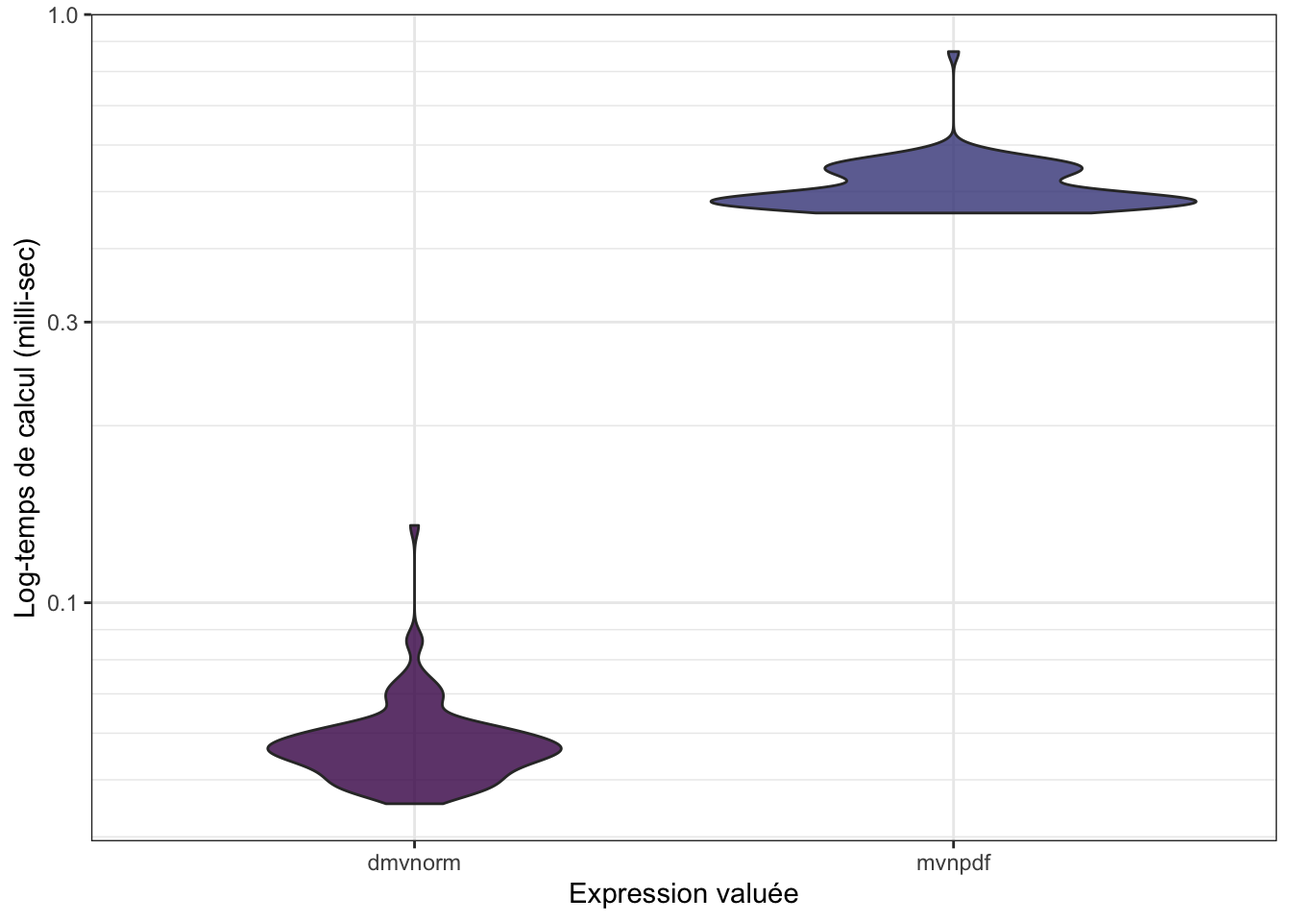
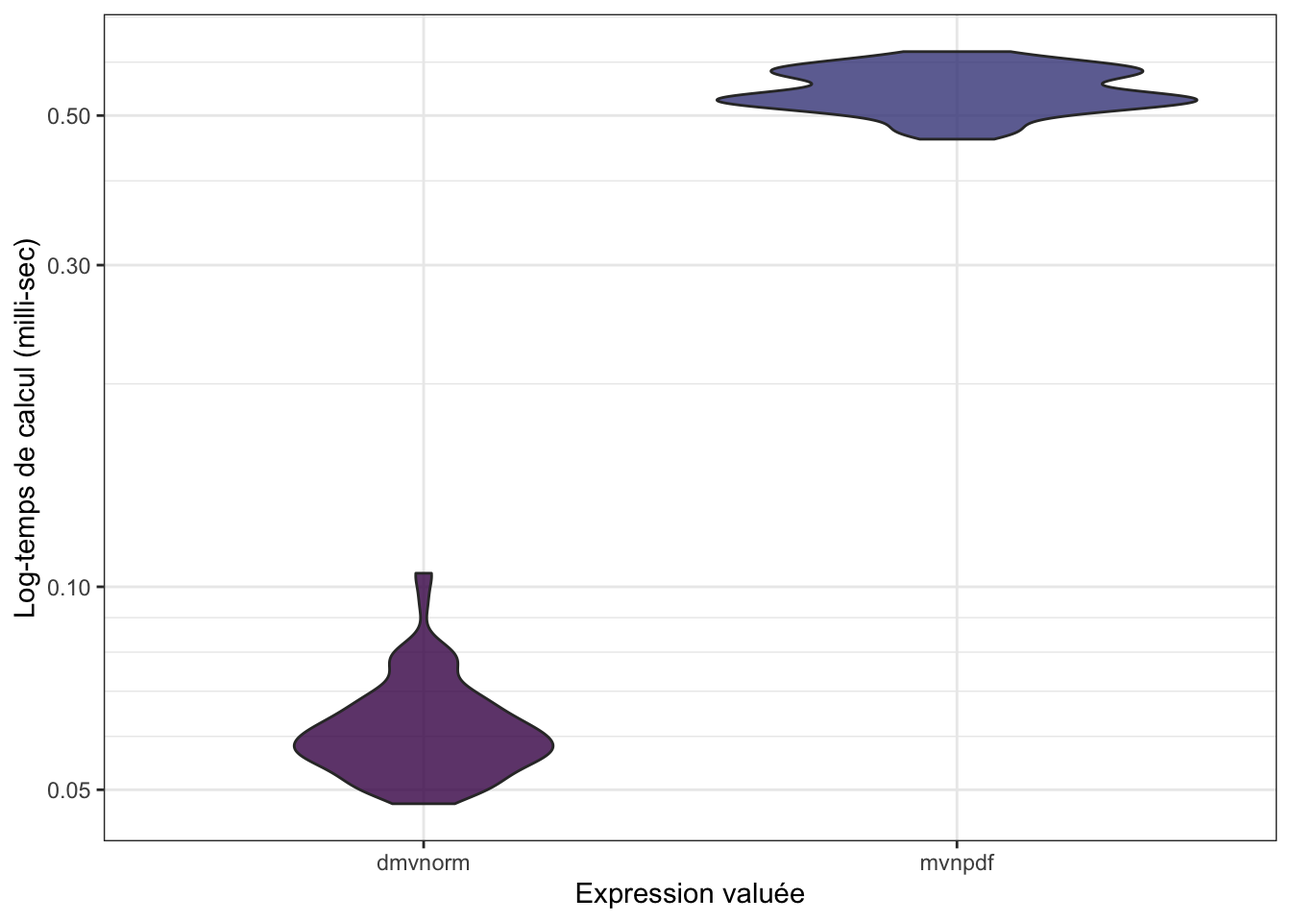
no more misc

diff --git a/_book/mesurer-et-comparer-des-temps-dexécution.html b/_book/mesurer-et-comparer-des-temps-dexécution.html
@@ -51,8 +51,7 @@
 <li><a class="" href="profiler-son-code.html"><span class="header-section-number">4</span> Profiler son code</a></li>
 <li><a class="" href="rcpp-ou-comment-int%C3%A9grer-facilement-du-code-cdans-un-package.html"><span class="header-section-number">5</span> Rcpp ou comment intégrer facilement du code C++dans un package </a></li>
 <li><a class="" href="parall%C3%A9lisation-du-code.html"><span class="header-section-number">6</span> Parallélisation du code </a></li>
-<li><a class="" href="misc%C3%A9lan%C3%A9es.html"><span class="header-section-number">7</span> Miscélanées</a></li>
-<li><a class="" href="take-home-message.html"><span class="header-section-number">8</span> Take Home message</a></li>
+<li><a class="" href="take-home-message.html"><span class="header-section-number">7</span> Take Home message</a></li>
 <li><a class="" href="further-reading.html">Further reading</a></li>
 </ul>
 
@@ -76,7 +75,7 @@ fonction <code><a href="https://rdrr.io/r/base/system.time.html">system.time()</
 <div class="sourceCode" id="cb9"><pre class="downlit sourceCode r">
 <code class="sourceCode R"><span class="fu"><a href="https://rdrr.io/r/base/system.time.html">system.time</a></span><span class="op">(</span><span class="fu">mvnpdf</span><span class="op">(</span>x<span class="op">=</span><span class="fu"><a href="https://rdrr.io/r/base/matrix.html">matrix</a></span><span class="op">(</span><span class="fu"><a href="https://rdrr.io/r/base/rep.html">rep</a></span><span class="op">(</span><span class="fl">1.96</span>, <span class="fl">2</span><span class="op">)</span>, nrow<span class="op">=</span><span class="fl">2</span>, ncol<span class="op">=</span><span class="fl">1</span><span class="op">)</span>, Log<span class="op">=</span><span class="cn">FALSE</span><span class="op">)</span><span class="op">)</span></code></pre></div>
 <pre><code>## utilisateur     système      écoulé 
-##       0.001       0.003       0.483</code></pre>
+##       0.001       0.000       0.002</code></pre>
 <p>Le problème qui apparaît sur cet exemple est que l’exécution est tellement
 rapide que <code><a href="https://rdrr.io/r/base/system.time.html">system.time()</a></code> affiche <code>0</code> (ou une valeur très proche).
 De plus, on voit qu’il y a une certaine variabilité quand on relance plusieurs
@@ -86,7 +85,7 @@ on ne peut pas utiliser <code><a href="https://rdrr.io/r/base/system.time.html">
 <div class="sourceCode" id="cb11"><pre class="downlit sourceCode r">
 <code class="sourceCode R"><span class="fu"><a href="https://rdrr.io/r/base/system.time.html">system.time</a></span><span class="op">(</span><span class="fu">mvtnorm</span><span class="fu">::</span><span class="fu"><a href="https://rdrr.io/pkg/mvtnorm/man/Mvnorm.html">dmvnorm</a></span><span class="op">(</span><span class="fu"><a href="https://rdrr.io/r/base/rep.html">rep</a></span><span class="op">(</span><span class="fl">1.96</span>, <span class="fl">2</span><span class="op">)</span><span class="op">)</span><span class="op">)</span></code></pre></div>
 <pre><code>## utilisateur     système      écoulé 
-##       0.004       0.003       0.012</code></pre>
+##       0.008       0.004       0.015</code></pre>
 <p>On pourrait se dire qu’il faut augmenter la complexité de notre calcul, mais
 il y a mieux : utiliser le package <code>microbenchmark</code> !</p>
 </div>
@@ -105,12 +104,12 @@ commandes et donc va stabiliser le résultat.</p>
                      times<span class="op">=</span><span class="fl">1000L</span><span class="op">)</span>
 <span class="va">mb</span></code></pre></div>
 <pre><code>## Unit: microseconds
-##                                           expr    min     lq     mean  median
-##                 mvtnorm::dmvnorm(rep(1.96, 2)) 38.151 41.445 49.40212 44.5555
-##  mvnpdf(x = matrix(rep(1.96, 2)), Log = FALSE) 35.410 38.303 43.77672 40.6375
-##      uq     max neval cld
-##  52.725 2034.52  1000   b
-##  48.141  108.67  1000  a</code></pre>
+##                                           expr    min      lq     mean  median
+##                 mvtnorm::dmvnorm(rep(1.96, 2)) 36.974 41.2820 48.71308 47.8220
+##  mvnpdf(x = matrix(rep(1.96, 2)), Log = FALSE) 34.283 38.0535 46.65114 44.1935
+##       uq      max neval cld
+##  53.4680  162.805  1000   a
+##  48.8095 2008.321  1000   a</code></pre>
 <pre><code>## Warning: It is deprecated to specify `guide = FALSE` to remove a guide. Please
 ## use `guide = "none"` instead.</code></pre>
 <div class="inline-figure"><img src="AdvancedRcourse_dev_perf_files/figure-html/unnamed-chunk-13-1.png" width="672"></div>
@@ -124,12 +123,12 @@ cas :</p>
                      times<span class="op">=</span><span class="fl">100L</span><span class="op">)</span>
 <span class="va">mb</span></code></pre></div>
 <pre><code>## Unit: microseconds
-##                                                       expr     min       lq
-##         mvtnorm::dmvnorm(matrix(1.96, nrow = n, ncol = 2))  45.527  51.8480
-##  mvnpdf(x = matrix(1.96, nrow = 2, ncol = n), Log = FALSE) 459.801 478.5005
-##       mean  median       uq     max neval cld
-##   57.90365  56.246  60.2025 135.332   100  a 
-##  510.34232 490.858 538.0045 864.819   100   b</code></pre>
+##                                                       expr     min      lq
+##         mvtnorm::dmvnorm(matrix(1.96, nrow = n, ncol = 2))  47.669  55.278
+##  mvnpdf(x = matrix(1.96, nrow = 2, ncol = n), Log = FALSE) 461.225 519.846
+##       mean   median       uq     max neval cld
+##   61.94593  59.6205  66.0735 104.742   100  a 
+##  544.29567 534.2715 579.1100 621.930   100   b</code></pre>
 <pre><code>## Warning: It is deprecated to specify `guide = FALSE` to remove a guide. Please
 ## use `guide = "none"` instead.</code></pre>
 <div class="inline-figure"><img src="AdvancedRcourse_dev_perf_files/figure-html/unnamed-chunk-15-1.png" width="672"></div>

diff --git a/_book/profiler-son-code.html b/_book/profiler-son-code.html
@@ -51,8 +51,7 @@
 <li><a class="active" href="profiler-son-code.html"><span class="header-section-number">4</span> Profiler son code</a></li>
 <li><a class="" href="rcpp-ou-comment-int%C3%A9grer-facilement-du-code-cdans-un-package.html"><span class="header-section-number">5</span> Rcpp ou comment intégrer facilement du code C++dans un package </a></li>
 <li><a class="" href="parall%C3%A9lisation-du-code.html"><span class="header-section-number">6</span> Parallélisation du code </a></li>
-<li><a class="" href="misc%C3%A9lan%C3%A9es.html"><span class="header-section-number">7</span> Miscélanées</a></li>
-<li><a class="" href="take-home-message.html"><span class="header-section-number">8</span> Take Home message</a></li>
+<li><a class="" href="take-home-message.html"><span class="header-section-number">7</span> Take Home message</a></li>
 <li><a class="" href="further-reading.html">Further reading</a></li>
 </ul>
 
@@ -100,11 +99,11 @@ fine ce qui prend du temps dans notre fonction.</p>
 <span class="va">mb</span></code></pre></div>
 <pre><code>## Unit: milliseconds
 ##                                                            expr      min
-##       mvnpdf(x = matrix(1.96, nrow = 2, ncol = n), Log = FALSE) 4.292658
-##  mvnpdfsmart(x = matrix(1.96, nrow = 2, ncol = n), Log = FALSE) 3.121930
-##        lq     mean   median       uq       max neval cld
-##  5.178992 6.533629 5.321799 6.648076 16.304155   100   b
-##  3.777338 3.931974 3.824561 3.894648  5.802973   100  a</code></pre>
+##       mvnpdf(x = matrix(1.96, nrow = 2, ncol = n), Log = FALSE) 4.782176
+##  mvnpdfsmart(x = matrix(1.96, nrow = 2, ncol = n), Log = FALSE) 3.438059
+##        lq     mean   median       uq      max neval cld
+##  5.257269 7.430717 6.071878 7.933469 29.95872   100   b
+##  3.795624 4.714930 3.980714 4.958576 10.35082   100  a</code></pre>
 <pre><code>## Warning: It is deprecated to specify `guide = FALSE` to remove a guide. Please
 ## use `guide = "none"` instead.</code></pre>
 <div class="inline-figure"><img src="AdvancedRcourse_dev_perf_files/figure-html/unnamed-chunk-20-1.png" width="672"></div>
@@ -118,13 +117,13 @@ fine ce qui prend du temps dans notre fonction.</p>
 <span class="va">mb</span></code></pre></div>
 <pre><code>## Unit: microseconds
 ##                                                            expr      min
-##              mvtnorm::dmvnorm(matrix(1.96, nrow = n, ncol = 2))   69.083
-##       mvnpdf(x = matrix(1.96, nrow = 2, ncol = n), Log = FALSE) 4611.668
-##  mvnpdfsmart(x = matrix(1.96, nrow = 2, ncol = n), Log = FALSE) 3542.551
-##         lq      mean    median        uq      max neval cld
-##    89.2865  112.7825  107.4805  126.9635   244.33   100 a  
-##  5120.0665 5987.7049 5217.0675 5573.6605 14612.64   100   c
-##  3728.4760 4010.8418 3810.3465 3964.8255  9676.82   100  b</code></pre>
+##              mvtnorm::dmvnorm(matrix(1.96, nrow = n, ncol = 2))   60.010
+##       mvnpdf(x = matrix(1.96, nrow = 2, ncol = n), Log = FALSE) 4515.763
+##  mvnpdfsmart(x = matrix(1.96, nrow = 2, ncol = n), Log = FALSE) 3037.688
+##         lq      mean    median        uq       max neval cld
+##    82.0995  191.5077   98.9665  119.9235  7213.138   100 a  
+##  5024.7340 6657.3702 5128.3040 6216.6150 27369.315   100   c
+##  3652.8555 4391.7315 3728.3235 3847.4110 11374.462   100  b</code></pre>
 <pre><code>## Warning: It is deprecated to specify `guide = FALSE` to remove a guide. Please
 ## use `guide = "none"` instead.</code></pre>
 <div class="inline-figure"><img src="AdvancedRcourse_dev_perf_files/figure-html/unnamed-chunk-22-1.png" width="672"></div>
@@ -153,15 +152,15 @@ fonction :</p>
 <span class="va">mb</span></code></pre></div>
 <pre><code>## Unit: microseconds
 ##                                                            expr      min
-##              mvtnorm::dmvnorm(matrix(1.96, nrow = n, ncol = 2))   68.257
-##       mvnpdf(x = matrix(1.96, nrow = 2, ncol = n), Log = FALSE) 4091.445
-##  mvnpdfsmart(x = matrix(1.96, nrow = 2, ncol = n), Log = FALSE) 3052.047
-##  mvnpdfoptim(x = matrix(1.96, nrow = 2, ncol = n), Log = FALSE) 2269.883
-##         lq      mean   median        uq       max neval  cld
-##    87.7205  123.6598  103.104  134.2335   411.735   100 a   
-##  5067.2785 6306.9136 5301.935 6239.9835 24134.017   100    d
-##  3677.6310 4046.1961 3823.486 3934.9035 10496.927   100   c 
-##  2747.6350 3245.0292 2856.783 3035.3405 21008.582   100  b</code></pre>
+##              mvtnorm::dmvnorm(matrix(1.96, nrow = n, ncol = 2))   61.880
+##       mvnpdf(x = matrix(1.96, nrow = 2, ncol = n), Log = FALSE) 4420.839
+##  mvnpdfsmart(x = matrix(1.96, nrow = 2, ncol = n), Log = FALSE) 3180.648
+##  mvnpdfoptim(x = matrix(1.96, nrow = 2, ncol = n), Log = FALSE) 2317.068
+##         lq      mean    median        uq       max neval  cld
+##    86.8445  108.4047   99.3155  113.8705   369.739   100 a   
+##  5104.8385 7021.1358 5238.6300 6625.9410 25898.952   100    d
+##  3719.1895 4228.5806 3786.3715 3918.7465 11089.569   100   c 
+##  2823.5855 3283.0512 2910.9475 3007.3695 10057.728   100  b</code></pre>
 <pre><code>## Warning: It is deprecated to specify `guide = FALSE` to remove a guide. Please
 ## use `guide = "none"` instead.</code></pre>
 <div class="inline-figure"><img src="AdvancedRcourse_dev_perf_files/figure-html/unnamed-chunk-25-1.png" width="672"></div>

diff --git a/_book/take-home-message.html b/_book/take-home-message.html
@@ -4,15 +4,15 @@
 <meta http-equiv="Content-Type" content="text/html; charset=UTF-8">
 <meta charset="utf-8">
 <meta name="viewport" content="width=device-width, initial-scale=1, shrink-to-fit=no">
-<title>Chapter 8 Take Home message | Advanced  course</title>
+<title>Chapter 7 Take Home message | Advanced  course</title>
 <meta name="author" content="Robin Genuer &amp; Boris Hejblum">
 <meta name="description" content="MAKE PACKAGES use git, at least locally for yourself if needed (i.e. after optimization of code itself), do not be afraid of using Rcpp and/or of parallelizing tour code">
 <meta name="generator" content="bookdown 0.26 with bs4_book()">
-<meta property="og:title" content="Chapter 8 Take Home message | Advanced  course">
+<meta property="og:title" content="Chapter 7 Take Home message | Advanced  course">
 <meta property="og:type" content="book">
 <meta property="og:description" content="MAKE PACKAGES use git, at least locally for yourself if needed (i.e. after optimization of code itself), do not be afraid of using Rcpp and/or of parallelizing tour code">
 <meta name="twitter:card" content="summary">
-<meta name="twitter:title" content="Chapter 8 Take Home message | Advanced  course">
+<meta name="twitter:title" content="Chapter 7 Take Home message | Advanced  course">
 <meta name="twitter:description" content="MAKE PACKAGES use git, at least locally for yourself if needed (i.e. after optimization of code itself), do not be afraid of using Rcpp and/or of parallelizing tour code">
 <!-- JS --><script src="https://cdnjs.cloudflare.com/ajax/libs/clipboard.js/2.0.6/clipboard.min.js" integrity="sha256-inc5kl9MA1hkeYUt+EC3BhlIgyp/2jDIyBLS6k3UxPI=" crossorigin="anonymous"></script><script src="https://cdnjs.cloudflare.com/ajax/libs/fuse.js/6.4.6/fuse.js" integrity="sha512-zv6Ywkjyktsohkbp9bb45V6tEMoWhzFzXis+LrMehmJZZSys19Yxf1dopHx7WzIKxr5tK2dVcYmaCk2uqdjF4A==" crossorigin="anonymous"></script><script src="https://kit.fontawesome.com/6ecbd6c532.js" crossorigin="anonymous"></script><script src="libs/jquery-3.6.0/jquery-3.6.0.min.js"></script><meta name="viewport" content="width=device-width, initial-scale=1, shrink-to-fit=no">
 <link href="libs/bootstrap-4.6.0/bootstrap.min.css" rel="stylesheet">
@@ -51,8 +51,7 @@
 <li><a class="" href="profiler-son-code.html"><span class="header-section-number">4</span> Profiler son code</a></li>
 <li><a class="" href="rcpp-ou-comment-int%C3%A9grer-facilement-du-code-cdans-un-package.html"><span class="header-section-number">5</span> Rcpp ou comment intégrer facilement du code C++dans un package </a></li>
 <li><a class="" href="parall%C3%A9lisation-du-code.html"><span class="header-section-number">6</span> Parallélisation du code </a></li>
-<li><a class="" href="misc%C3%A9lan%C3%A9es.html"><span class="header-section-number">7</span> Miscélanées</a></li>
-<li><a class="active" href="take-home-message.html"><span class="header-section-number">8</span> Take Home message</a></li>
+<li><a class="active" href="take-home-message.html"><span class="header-section-number">7</span> Take Home message</a></li>
 <li><a class="" href="further-reading.html">Further reading</a></li>
 </ul>
 
@@ -61,9 +60,9 @@
         </div>
       </nav>
 </div>
-  </header><main class="col-sm-12 col-md-9 col-lg-7" id="content"><div id="take-home-message" class="section level1" number="8">
+  </header><main class="col-sm-12 col-md-9 col-lg-7" id="content"><div id="take-home-message" class="section level1" number="7">
 <h1>
-<span class="header-section-number">8</span> <em>Take Home message</em><a class="anchor" aria-label="anchor" href="#take-home-message"><i class="fas fa-link"></i></a>
+<span class="header-section-number">7</span> <em>Take Home message</em><a class="anchor" aria-label="anchor" href="#take-home-message"><i class="fas fa-link"></i></a>
 </h1>
 <ol style="list-style-type: decimal">
 <li><p><strong>MAKE PACKAGES</strong></p></li>
@@ -72,11 +71,11 @@
 </ol>
 </div>
   <div class="chapter-nav">
-<div class="prev"><a href="misc%C3%A9lan%C3%A9es.html"><span class="header-section-number">7</span> Miscélanées</a></div>
+<div class="prev"><a href="parall%C3%A9lisation-du-code.html"><span class="header-section-number">6</span> Parallélisation du code </a></div>
 <div class="next"><a href="further-reading.html">Further reading</a></div>
 </div></main><div class="col-md-3 col-lg-2 d-none d-md-block sidebar sidebar-chapter">
     <nav id="toc" data-toggle="toc" aria-label="On this page"><h2>On this page</h2>
-      <ul class="nav navbar-nav"><li><a class="nav-link" href="#take-home-message"><span class="header-section-number">8</span> Take Home message</a></li></ul>
+      <ul class="nav navbar-nav"><li><a class="nav-link" href="#take-home-message"><span class="header-section-number">7</span> Take Home message</a></li></ul>
 
       <div class="book-extra">
         <ul class="list-unstyled">

diff --git a/_book/rcpp-ou-comment-intégrer-facilement-du-code-cdans-un-package.html b/_book/rcpp-ou-comment-intégrer-facilement-du-code-cdans-un-package.html
@@ -51,8 +51,7 @@
 <li><a class="" href="profiler-son-code.html"><span class="header-section-number">4</span> Profiler son code</a></li>
 <li><a class="active" href="rcpp-ou-comment-int%C3%A9grer-facilement-du-code-cdans-un-package.html"><span class="header-section-number">5</span> Rcpp ou comment intégrer facilement du code C++dans un package </a></li>
 <li><a class="" href="parall%C3%A9lisation-du-code.html"><span class="header-section-number">6</span> Parallélisation du code </a></li>
-<li><a class="" href="misc%C3%A9lan%C3%A9es.html"><span class="header-section-number">7</span> Miscélanées</a></li>
-<li><a class="" href="take-home-message.html"><span class="header-section-number">8</span> Take Home message</a></li>
+<li><a class="" href="take-home-message.html"><span class="header-section-number">7</span> Take Home message</a></li>
 <li><a class="" href="further-reading.html">Further reading</a></li>
 </ul>
 
@@ -145,17 +144,17 @@ uniquement les calculs d’inverse matriciel par un appel à <code>invC</code>.<
 <span class="va">mb</span></code></pre></div>
 <pre><code>## Unit: microseconds
 ##                                                            expr      min
-##              mvtnorm::dmvnorm(matrix(1.96, nrow = n, ncol = 2))   76.398
-##       mvnpdf(x = matrix(1.96, nrow = 2, ncol = n), Log = FALSE) 4810.770
-##  mvnpdfsmart(x = matrix(1.96, nrow = 2, ncol = n), Log = FALSE) 3638.329
-##  mvnpdfoptim(x = matrix(1.96, nrow = 2, ncol = n), Log = FALSE) 2738.181
-##  mvnpdf_invC(x = matrix(1.96, nrow = 2, ncol = n), Log = FALSE) 3691.153
-##        lq      mean   median       uq       max neval  cld
-##    95.759  130.6805  120.019  141.129   410.009   100 a   
-##  5174.573 6235.1089 5374.033 6243.951 21236.215   100    d
-##  3872.526 4539.3020 3981.622 4590.054 14544.819   100   c 
-##  2916.426 3275.8180 3028.481 3360.345  6782.041   100  b  
-##  3856.302 4445.7602 4001.709 4847.660  8746.889   100   c</code></pre>
+##              mvtnorm::dmvnorm(matrix(1.96, nrow = n, ncol = 2))   66.104
+##       mvnpdf(x = matrix(1.96, nrow = 2, ncol = n), Log = FALSE) 4079.348
+##  mvnpdfsmart(x = matrix(1.96, nrow = 2, ncol = n), Log = FALSE) 3043.689
+##  mvnpdfoptim(x = matrix(1.96, nrow = 2, ncol = n), Log = FALSE) 2266.037
+##  mvnpdf_invC(x = matrix(1.96, nrow = 2, ncol = n), Log = FALSE) 3079.326
+##         lq      mean   median       uq       max neval  cld
+##    84.7355  125.9898   94.905  110.662   596.595   100 a   
+##  4395.3735 5562.8388 4630.090 5351.625 15502.043   100    d
+##  3334.4845 4111.8908 3484.031 3650.970 17202.647   100   c 
+##  2571.6695 3287.0106 2689.866 2904.803 10982.333   100  b  
+##  3289.5125 3900.9194 3433.972 3661.645 11309.891   100  bc</code></pre>
 <pre><code>## Warning: It is deprecated to specify `guide = FALSE` to remove a guide. Please
 ## use `guide = "none"` instead.</code></pre>
 <div class="inline-figure"><img src="AdvancedRcourse_dev_perf_files/figure-html/unnamed-chunk-31-1.png" width="672"></div>
@@ -200,13 +199,13 @@ de densité de la loi Normale multivariée <code>mvnpdfC()</code>.</p></li>
 ##                                        mvnpdfoptim(x = matrix(1.96, nrow = 2, ncol = n), Log = FALSE)
 ##                                        mvnpdf_invC(x = matrix(1.96, nrow = 2, ncol = n), Log = FALSE)
 ##  mvnpdfC(x = matrix(1.96, nrow = 2, ncol = n), mean = rep(0, 2),      varcovM = diag(2), Log = FALSE)
-##       min        lq      mean    median        uq      max neval cld
-##    74.633   95.8425  117.0936  108.6525  128.0905   298.52   100 a  
-##  4772.592 5126.0895 5743.2069 5316.7645 6036.4835 10129.11   100   c
-##  3458.758 3790.8560 4242.3173 3911.2290 4129.1520 13760.54   100  b 
-##  2493.451 2810.5325 3736.4967 2954.6190 3145.4215 42243.87   100  b 
-##  3432.292 3793.1365 4311.1678 3935.4360 4129.2115 14267.45   100  b 
-##    52.579   64.0865  172.8158   69.1650   76.8035 10149.12   100 a</code></pre>
+##       min        lq       mean    median        uq       max neval cld
+##    64.580   84.5755  114.62152  102.1695  130.3510   439.806   100 a  
+##  4351.809 4915.6780 6160.64048 5183.7355 6281.2320 18577.531   100   c
+##  3250.110 3622.0315 4225.03603 3763.3820 3921.8545 13521.439   100  b 
+##  2409.754 2773.6885 3772.93162 2904.2110 3186.9730 13551.527   100  b 
+##  3175.598 3641.6280 4292.75754 3777.0575 3971.1125 11087.238   100  b 
+##    45.834   61.2690   91.26435   67.9665   77.4345  1225.825   100 a</code></pre>
 <pre><code>## Warning: It is deprecated to specify `guide = FALSE` to remove a guide. Please
 ## use `guide = "none"` instead.</code></pre>
 <div class="inline-figure"><img src="AdvancedRcourse_dev_perf_files/figure-html/unnamed-chunk-34-1.png" width="672"></div>

diff --git a/_book/parallélisation-du-code.html b/_book/parallélisation-du-code.html
@@ -51,8 +51,7 @@
 <li><a class="" href="profiler-son-code.html"><span class="header-section-number">4</span> Profiler son code</a></li>
 <li><a class="" href="rcpp-ou-comment-int%C3%A9grer-facilement-du-code-cdans-un-package.html"><span class="header-section-number">5</span> Rcpp ou comment intégrer facilement du code C++dans un package </a></li>
 <li><a class="active" href="parall%C3%A9lisation-du-code.html"><span class="header-section-number">6</span> Parallélisation du code </a></li>
-<li><a class="" href="misc%C3%A9lan%C3%A9es.html"><span class="header-section-number">7</span> Miscélanées</a></li>
-<li><a class="" href="take-home-message.html"><span class="header-section-number">8</span> Take Home message</a></li>
+<li><a class="" href="take-home-message.html"><span class="header-section-number">7</span> Take Home message</a></li>
 <li><a class="" href="further-reading.html">Further reading</a></li>
 </ul>
 
@@ -188,7 +187,7 @@ médiane pour chacune de ces variables.</p>
 <span class="op">}</span>
 <span class="fu"><a href="https://rdrr.io/r/base/system.time.html">system.time</a></span><span class="op">(</span><span class="fu">colmedian_apply</span><span class="op">(</span><span class="va">x</span><span class="op">)</span><span class="op">)</span></code></pre></div>
 <pre><code>## utilisateur     système      écoulé 
-##       2.814       0.005       2.823</code></pre>
+##       3.012       0.011       3.029</code></pre>
 <p>En réalité, une boucle <code>for</code> n’est pas plus lente à condition d’être bien
 programmée :</p>
 <div class="sourceCode" id="cb46"><pre class="downlit sourceCode r">
@@ -201,7 +200,7 @@ programmée :</p>
 <span class="op">}</span>
 <span class="fu"><a href="https://rdrr.io/r/base/system.time.html">system.time</a></span><span class="op">(</span><span class="fu">colmedian_for</span><span class="op">(</span><span class="va">x</span><span class="op">)</span><span class="op">)</span></code></pre></div>
 <pre><code>## utilisateur     système      écoulé 
-##       2.741       0.005       2.751</code></pre>
+##       2.730       0.024       2.760</code></pre>
 <blockquote>
 <p><strong><em>À vous de jouer !</em></strong><br>
 Essayez d’améliorer encore ce temps de calcul en parallélisant :</p>
@@ -341,11 +340,29 @@ optimiser son code. Quand on parallélise un code, le gain sur la durée
 d’exécution dépend avant tout du ratio entre le temps de communication et le
 temps de calcul effectif pour chaque tache.</p>
 
+<!--
+# Miscelaneouus
+
+## Debugging with `browser()`
+
+## `attach`
+
+## memory management
+
+## copies and local/global variables in functions
+
+## naming
+
+## `gpplot2`
+
+
+-->
+
 </div>
 </div>
   <div class="chapter-nav">
 <div class="prev"><a href="rcpp-ou-comment-int%C3%A9grer-facilement-du-code-cdans-un-package.html"><span class="header-section-number">5</span> Rcpp ou comment intégrer facilement du code C++dans un package </a></div>
-<div class="next"><a href="misc%C3%A9lan%C3%A9es.html"><span class="header-section-number">7</span> Miscélanées</a></div>
+<div class="next"><a href="take-home-message.html"><span class="header-section-number">7</span> Take Home message</a></div>
 </div></main><div class="col-md-3 col-lg-2 d-none d-md-block sidebar sidebar-chapter">
     <nav id="toc" data-toggle="toc" aria-label="On this page"><h2>On this page</h2>
       <ul class="nav navbar-nav">

diff --git a/_book/further-reading.html b/_book/further-reading.html
@@ -51,8 +51,7 @@
 <li><a class="" href="profiler-son-code.html"><span class="header-section-number">4</span> Profiler son code</a></li>
 <li><a class="" href="rcpp-ou-comment-int%C3%A9grer-facilement-du-code-cdans-un-package.html"><span class="header-section-number">5</span> Rcpp ou comment intégrer facilement du code C++dans un package </a></li>
 <li><a class="" href="parall%C3%A9lisation-du-code.html"><span class="header-section-number">6</span> Parallélisation du code </a></li>
-<li><a class="" href="misc%C3%A9lan%C3%A9es.html"><span class="header-section-number">7</span> Miscélanées</a></li>
-<li><a class="" href="take-home-message.html"><span class="header-section-number">8</span> Take Home message</a></li>
+<li><a class="" href="take-home-message.html"><span class="header-section-number">7</span> Take Home message</a></li>
 <li><a class="active" href="further-reading.html">Further reading</a></li>
 </ul>
 
@@ -77,7 +76,7 @@
 </ul>
 </div>
   <div class="chapter-nav">
-<div class="prev"><a href="take-home-message.html"><span class="header-section-number">8</span> Take Home message</a></div>
+<div class="prev"><a href="take-home-message.html"><span class="header-section-number">7</span> Take Home message</a></div>
 <div class="empty"></div>
 </div></main><div class="col-md-3 col-lg-2 d-none d-md-block sidebar sidebar-chapter">
     <nav id="toc" data-toggle="toc" aria-label="On this page"><h2>On this page</h2>

diff --git a/_book/404.html b/_book/404.html
@@ -51,8 +51,7 @@
 <li><a class="" href="profiler-son-code.html"><span class="header-section-number">4</span> Profiler son code</a></li>
 <li><a class="" href="rcpp-ou-comment-int%C3%A9grer-facilement-du-code-cdans-un-package.html"><span class="header-section-number">5</span> Rcpp ou comment intégrer facilement du code C++dans un package </a></li>
 <li><a class="" href="parall%C3%A9lisation-du-code.html"><span class="header-section-number">6</span> Parallélisation du code </a></li>
-<li><a class="" href="misc%C3%A9lan%C3%A9es.html"><span class="header-section-number">7</span> Miscélanées</a></li>
-<li><a class="" href="take-home-message.html"><span class="header-section-number">8</span> Take Home message</a></li>
+<li><a class="" href="take-home-message.html"><span class="header-section-number">7</span> Take Home message</a></li>
 <li><a class="" href="further-reading.html">Further reading</a></li>
 </ul>
 

diff --git a/_book/building-a-package.html b/_book/building-a-package.html
@@ -51,8 +51,7 @@
 <li><a class="" href="profiler-son-code.html"><span class="header-section-number">4</span> Profiler son code</a></li>
 <li><a class="" href="rcpp-ou-comment-int%C3%A9grer-facilement-du-code-cdans-un-package.html"><span class="header-section-number">5</span> Rcpp ou comment intégrer facilement du code C++dans un package </a></li>
 <li><a class="" href="parall%C3%A9lisation-du-code.html"><span class="header-section-number">6</span> Parallélisation du code </a></li>
-<li><a class="" href="misc%C3%A9lan%C3%A9es.html"><span class="header-section-number">7</span> Miscélanées</a></li>
-<li><a class="" href="take-home-message.html"><span class="header-section-number">8</span> Take Home message</a></li>
+<li><a class="" href="take-home-message.html"><span class="header-section-number">7</span> Take Home message</a></li>
 <li><a class="" href="further-reading.html">Further reading</a></li>
 </ul>
 

diff --git a/_book/index.html b/_book/index.html
@@ -51,8 +51,7 @@
 <li><a class="" href="profiler-son-code.html"><span class="header-section-number">4</span> Profiler son code</a></li>
 <li><a class="" href="rcpp-ou-comment-int%C3%A9grer-facilement-du-code-cdans-un-package.html"><span class="header-section-number">5</span> Rcpp ou comment intégrer facilement du code C++dans un package </a></li>
 <li><a class="" href="parall%C3%A9lisation-du-code.html"><span class="header-section-number">6</span> Parallélisation du code </a></li>
-<li><a class="" href="misc%C3%A9lan%C3%A9es.html"><span class="header-section-number">7</span> Miscélanées</a></li>
-<li><a class="" href="take-home-message.html"><span class="header-section-number">8</span> Take Home message</a></li>
+<li><a class="" href="take-home-message.html"><span class="header-section-number">7</span> Take Home message</a></li>
 <li><a class="" href="further-reading.html">Further reading</a></li>
 </ul>
 

diff --git a/_book/version-control-with-git-and-github.html b/_book/version-control-with-git-and-github.html
@@ -51,8 +51,7 @@
 <li><a class="" href="profiler-son-code.html"><span class="header-section-number">4</span> Profiler son code</a></li>
 <li><a class="" href="rcpp-ou-comment-int%C3%A9grer-facilement-du-code-cdans-un-package.html"><span class="header-section-number">5</span> Rcpp ou comment intégrer facilement du code C++dans un package </a></li>
 <li><a class="" href="parall%C3%A9lisation-du-code.html"><span class="header-section-number">6</span> Parallélisation du code </a></li>
-<li><a class="" href="misc%C3%A9lan%C3%A9es.html"><span class="header-section-number">7</span> Miscélanées</a></li>
-<li><a class="" href="take-home-message.html"><span class="header-section-number">8</span> Take Home message</a></li>
+<li><a class="" href="take-home-message.html"><span class="header-section-number">7</span> Take Home message</a></li>
 <li><a class="" href="further-reading.html">Further reading</a></li>
 </ul>
 
